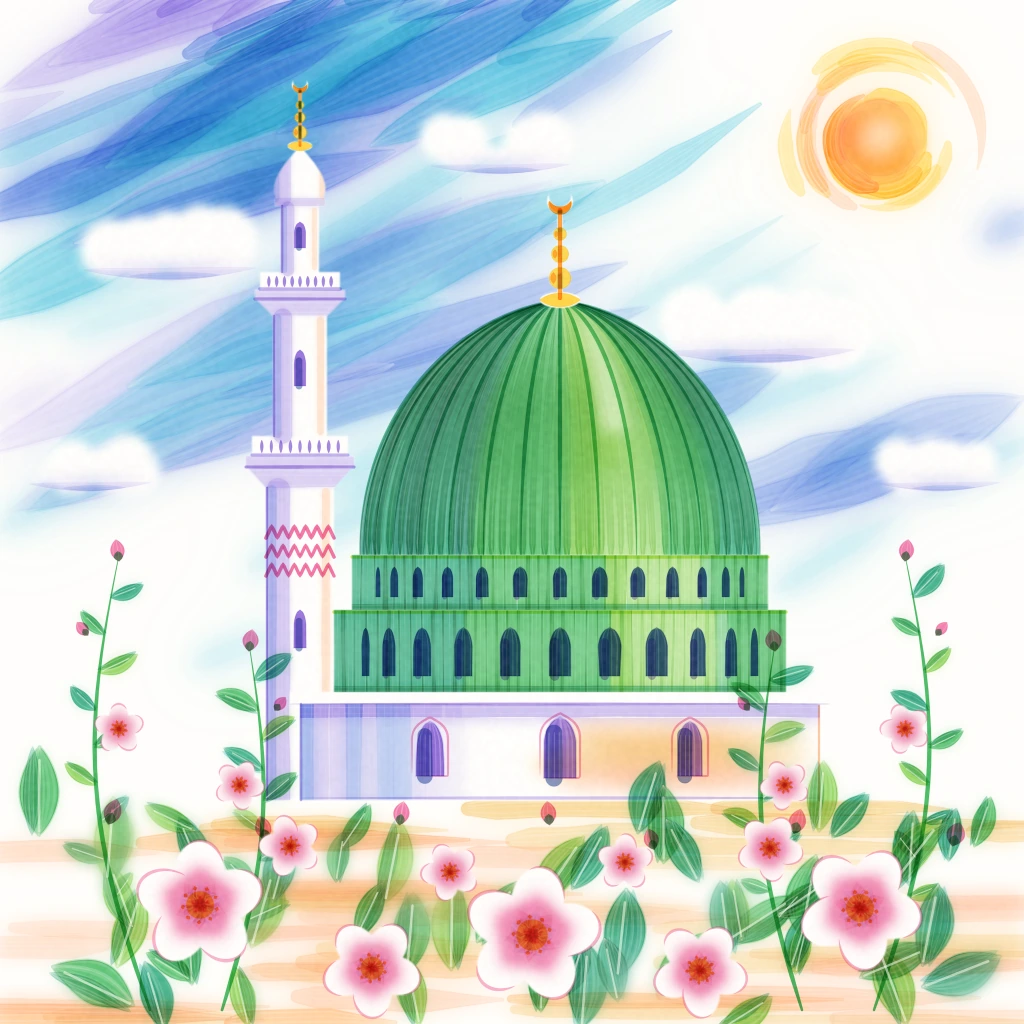
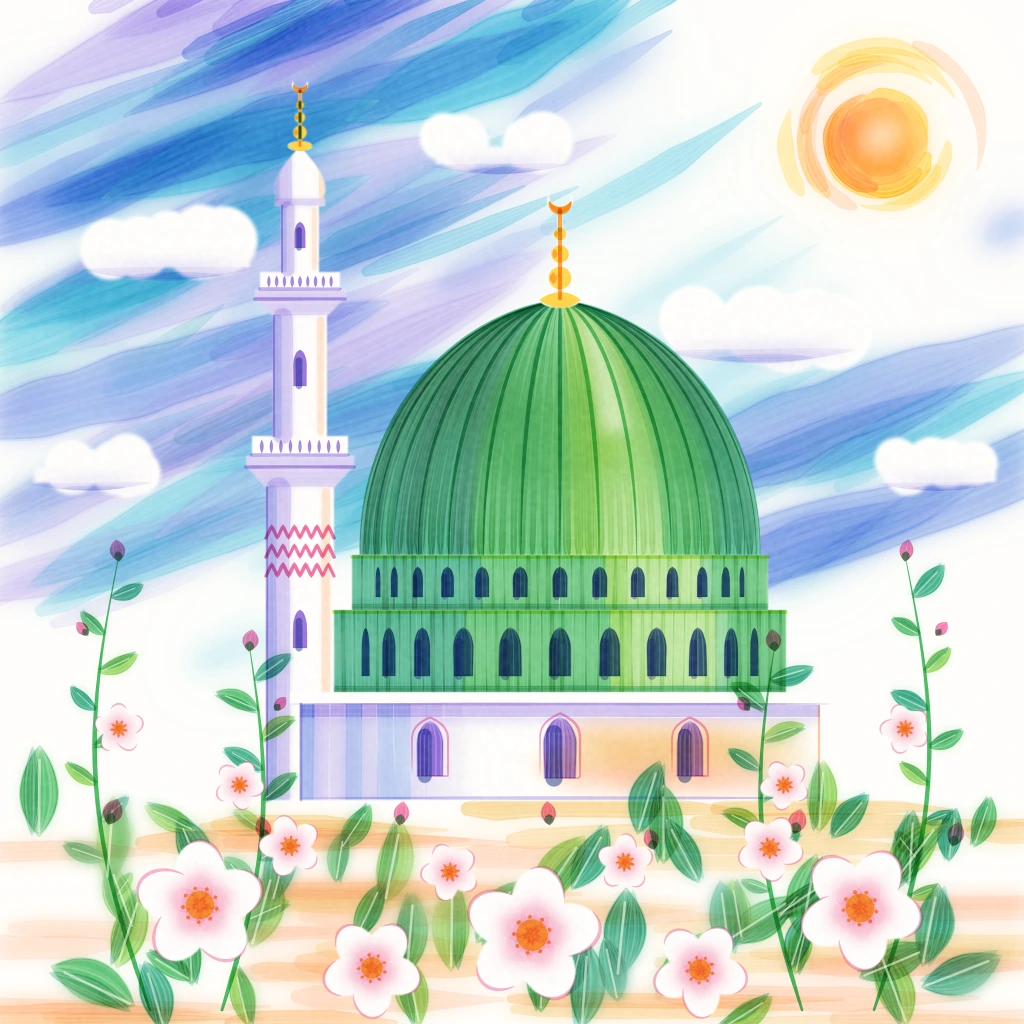
Atölye: üçüncü tur gözden geçirmelerinin ara kaydı
Claude-Session: https://claude.ai/code/session_01Q8CfoBGMPN7gfLWQYpMs1J

diff --git a/atolye/stiller/S-099-suluboya-firca-kalemi/ornek.html b/atolye/stiller/S-099-suluboya-firca-kalemi/ornek.html
@@ -325,19 +325,52 @@
     const rr = S.rng(111);
     bolge(
       (h) => {
-        for (let i = 0; i < 46; i++) {
-          const y0 = 20 + rr() * 520, x0 = -100 + rr() * 900, Ld = 260 + rr() * 380;
+        for (let i = 0; i < 56; i++) {
+          const y0 = 20 + rr() * 600, x0 = -100 + rr() * 900, Ld = 260 + rr() * 380;
           const ang = -0.38 + (rr() - 0.5) * 0.2;
           const x1 = x0 + Math.cos(ang) * Ld, y1 = y0 + Math.sin(ang) * Ld;
           const dG = Math.min(Math.hypot((x0 + x1) / 2 - S.gunes.x, (y0 + y1) / 2 - S.gunes.y), Math.hypot(x1 - S.gunes.x, y1 - S.gunes.y));
           if (dG < 250) continue;
-          const kuv = Math.max(0, 1 - y0 / 600);
+          const kuv = Math.max(0.3, 1 - y0 / 700);
           const renk = x0 < 250 && rr() < 0.4 ? C.lila : rr() < 0.55 ? C.turkuaz : C.mavi;
           darbe(h, egri([[x0, y0], [(x0 + x1) / 2, (y0 + y1) / 2 + (rr() - 0.5) * 20], [x1, y1]], 4), 40 + rr() * 40, renk, 0.12 + 0.3 * kuv, { profil: 'yaprak' });
         }
       },
       null,
-      { bulanik: 22, bulanik2: 6, su: 0.9 }
+      { bulanik: 13, bulanik2: 5, su: 0.9 }
+    );
+  }
+  // gökün ortası: açık renk kalemle çekilmiş, çoğu keskin kalmış seyrek darbeler (ufka doğru açılan gök
+  // boş bir pus gibi değil, yine fırça kalemi darbeleriyle okunur)
+  {
+    const rr = S.rng(121);
+    bolge(
+      (h) => {
+        for (let i = 0; i < 34; i++) {
+          const x0 = -80 + rr() * 1100, y0 = 250 + rr() * 380;
+          const ang = -0.42 + (rr() - 0.5) * 0.22, Ld = 110 + rr() * 170;
+          const xm = x0 + Math.cos(ang) * Ld * 0.5, ym = y0 + Math.sin(ang) * Ld * 0.5;
+          if (Math.hypot(xm - S.gunes.x, ym - S.gunes.y) < 280) continue;
+          const renk = x0 < 300 && rr() < 0.35 ? C.lila : rr() < 0.3 ? C.camgobegi : C.turkuaz;
+          const k1 = [x0, y0], k3 = [x0 + Math.cos(ang) * Ld, y0 + Math.sin(ang) * Ld];
+          const k2 = [xm, ym + (rr() - 0.5) * 14];
+          darbe(h, egri([k1, k2, k3], 3), 15 + rr() * 10, renk, (0.26 + rr() * 0.14) * Math.max(0.55, 1 - (y0 - 250) / 500));
+        }
+      },
+      (m) => {
+        m.fillStyle = 'rgba(0,0,0,0.8)';
+        m.fillRect(0, 0, 1024, 1024);
+        m.globalCompositeOperation = 'destination-out';
+        for (let i = 0; i < 14; i++) {
+          const x = rr() * 1024, y = 260 + rr() * 360, r = 50 + rr() * 70;
+          const gg = m.createRadialGradient(x, y, 0, x, y, r);
+          gg.addColorStop(0, 'rgba(0,0,0,0.8)');
+          gg.addColorStop(1, 'rgba(0,0,0,0)');
+          m.fillStyle = gg;
+          m.fillRect(x - r, y - r, 2 * r, 2 * r);
+        }
+      },
+      { bulanik: 9, su: 0.85 }
     );
   }
   // güneş: sarı ve turuncu dairesel darbeler, ortası suyla açılmış
@@ -390,7 +423,7 @@
       }
       yol.rect(bx - 80 * bs, by - 4 * bs, 160 * bs, 22 * bs);
       yollar.push([yol, bx, by, bs]);
-      beyazBirak(yol, 5);
+      beyazBirak(yol, 1.8);
     }
     bolge(
       (h) => {
@@ -771,9 +804,9 @@
         for (const c of B.cicekler) {
           for (const e of S.tacYapraklari(c)) {
             const ca = Math.cos(e.aci), sa = Math.sin(e.aci);
-            const u0 = c.r * 0.1, u1 = c.r * 0.6;
-            darbe(h, [[c.x + ca * u0, c.y + sa * u0], [c.x + ca * u1, c.y + sa * u1]], c.r * 0.5, C.pembe, 0.8, { profil: 'darbe' });
-            darbe(h, [[c.x + ca * u0, c.y + sa * u0], [c.x + ca * c.r * 0.35, c.y + sa * c.r * 0.35]], c.r * 0.3, C.eflatun, 0.5, { profil: 'darbe' });
+            const u0 = c.r * 0.12, u1 = c.r * 0.52;
+            darbe(h, [[c.x + ca * u0, c.y + sa * u0], [c.x + ca * u1, c.y + sa * u1]], c.r * 0.42, C.gul, 0.55, { profil: 'darbe' });
+            darbe(h, [[c.x + ca * u0, c.y + sa * u0], [c.x + ca * c.r * 0.3, c.y + sa * c.r * 0.3]], c.r * 0.24, C.pembe, 0.32, { profil: 'darbe' });
           }
         }
       },

diff --git a/atolye/stiller/S-117-el-boyamasi-duvar-kagidi/ornek.html b/atolye/stiller/S-117-el-boyamasi-duvar-kagidi/ornek.html
@@ -748,9 +748,9 @@
   {
     // tümsekler: arkadan öne üç sıra, her biri bir öncekini örter
     const siralar = [
-      { yb: 818, h: [10, 18], w: [120, 190], ust: '#DCE8CC', alt: '#CBDDB9' },
-      { yb: 872, h: [12, 22], w: [140, 220], ust: '#D3E3C0', alt: '#C2D7AE' },
-      { yb: 940, h: [14, 26], w: [160, 240], ust: '#CCDFB8', alt: '#B9D1A4' },
+      { yb: 818, h: [10, 18], w: [120, 190], ust: '#E2ECCF', alt: '#C6DBB2' },
+      { yb: 872, h: [12, 22], w: [140, 220], ust: '#DAE8C4', alt: '#BCD4A6' },
+      { yb: 940, h: [14, 26], w: [160, 240], ust: '#D3E4BC', alt: '#B2CD9C' },
     ];
     siralar.forEach((sr, si) => {
       let x = -60 - rnd() * 80;
@@ -772,7 +772,7 @@
         sirt.bezierCurveTo(cx - w * 0.6, sr.yb + 4, cx - w * 0.45, tepe, cx, tepe);
         sirt.bezierCurveTo(cx + w * 0.45, tepe, cx + w * 0.6, sr.yb + 4, cx + w * 1.15, sr.yb + 12);
         ctx.save(); ctx.clip(yol); ctx.filter = 'blur(3px)'; ctx.strokeStyle = '#9DBE94'; ctx.globalAlpha = 0.35; ctx.lineWidth = 6; ctx.stroke(sirt); ctx.restore();
-        kontur(sirt, '#86A98A', 0.8, 0.6);
+        kontur(sirt, '#7FA587', 0.9, 0.75);
         // sırtta ot öbekleri
         for (let k = 0; k < 3; k++) {
           const t = 0.2 + rnd() * 0.6, ox = cx - w + t * 2 * w;
@@ -782,13 +782,13 @@
         x += w * (1.4 + rnd() * 0.5);
       }
       // her sıranın önüne birkaç küçük çiçek
-      for (let k = 0; k < 9; k++) {
-        const x2 = 20 + rnd() * 984, y2 = sr.yb + 18 + rnd() * 30;
-        kucukCicek(x2, y2, 3 + rnd() * 1.8, k % 3 === 0 ? '#B9C6EA' : k % 3 === 1 ? '#FFFFFF' : '#E9C3D4');
+      for (let k = 0; k < 6; k++) {
+        const x2 = 30 + rnd() * 964, y2 = sr.yb + 16 + rnd() * 28;
+        const renk = k % 3 === 0 ? '#A9BCEB' : k % 3 === 1 ? '#FFFFFF' : '#EBBBD0';
+        const m = 2 + Math.floor(rnd() * 3);
+        for (let q = 0; q < m; q++) kucukCicek(x2 + (rnd() - 0.5) * 26, y2 + (rnd() - 0.5) * 10, 4.2 + rnd() * 1.8, renk);
       }
-      if (si === 0) { kaya(412, 826, 26, 22, 31); kaya(598, 822, 30, 24, 32); }
-      if (si === 1) { kaya(330, 888, 22, 18, 33); kaya(700, 884, 20, 16, 34); }
-      if (si === 2) { kaya(612, 1002, 30, 24, 35); kaya(290, 1010, 24, 20, 36); }
+      if (si === 0) { kaya(410, 824, 30, 30, 31); kaya(600, 822, 34, 34, 32); }
     });
   }
 
